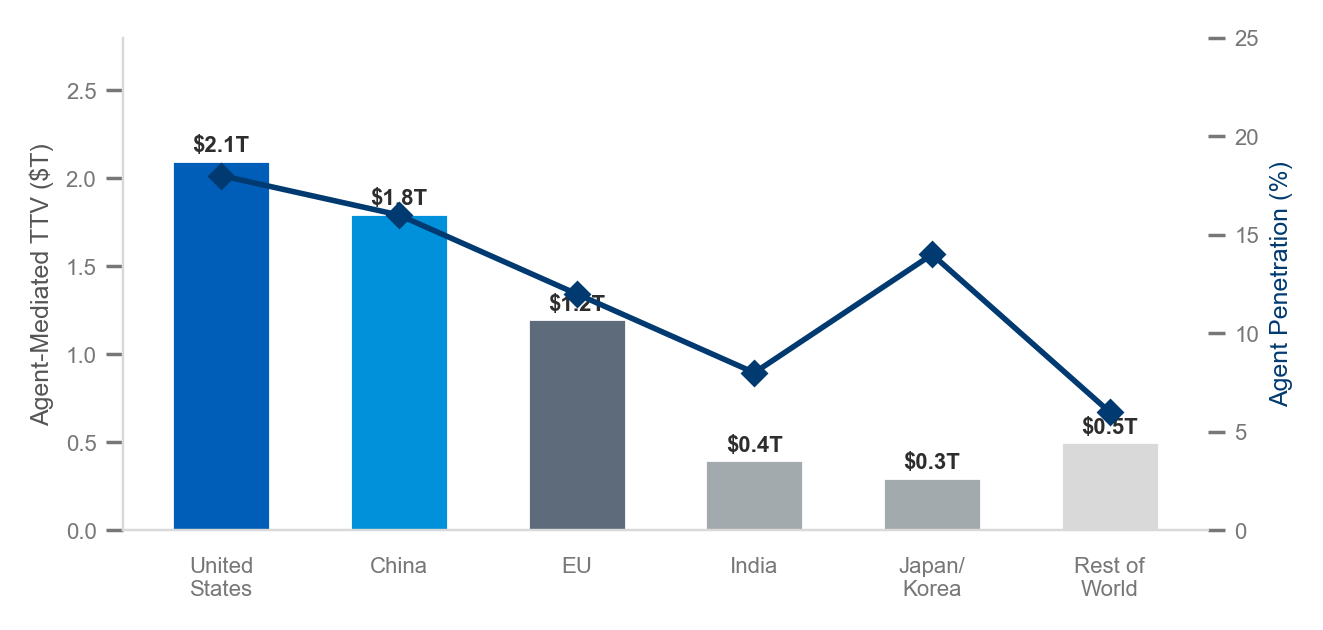
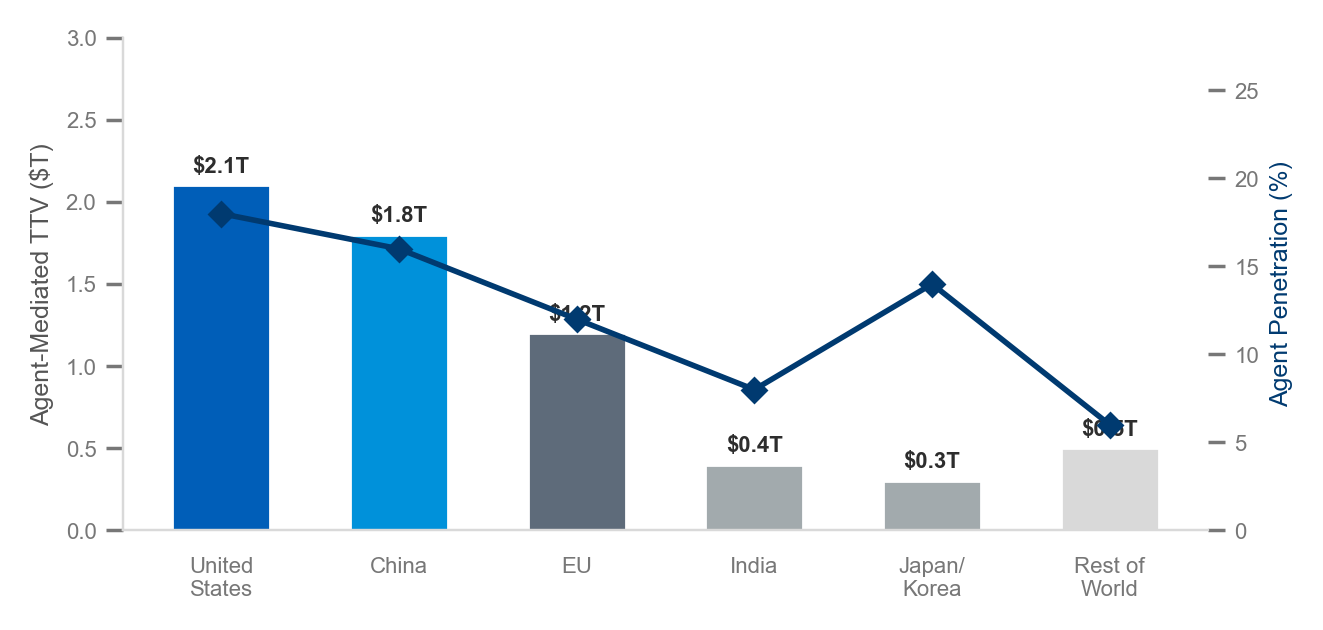
Add market map, fix chart text overlaps
- Added market map chart (19 charts total)
- Fixed risk heatmap label overlap with custom offsets
- Fixed regional projections bar/text overlap
- Report now 51 pages with market map section

diff --git a/reports/generate_charts.py b/reports/generate_charts.py
@@ -448,30 +448,42 @@ save(fig, 'consumer_demographics.png')
 # ============================================================
 # CHART 16: Risk Heatmap (Bubble Chart)
 # ============================================================
-fig, ax = plt.subplots(figsize=(7, 4))
+fig, ax = plt.subplots(figsize=(7, 4.5))
 risks = {
-    'Consumer\nTrust Gap': (75, 85, 800, BRAND_PRIMARY),
-    'Regulatory\nFragmentation': (65, 70, 600, ACCENT),
-    'Protocol\nFragmentation': (55, 55, 500, '#5E6B7A'),
-    'Agent Fraud\n& Security': (50, 80, 650, BRAND_PRIMARY),
-    'Merchant\nResistance': (40, 45, 400, NEUTRAL_GRAY),
-    'Technical\nReliability': (30, 35, 350, NEUTRAL_GRAY),
-    'Data Privacy\nConcerns': (60, 65, 550, ACCENT),
+    'Consumer Trust Gap': (78, 85, 600, BRAND_PRIMARY),
+    'Agent Fraud & Security': (48, 80, 500, BRAND_PRIMARY),
+    'Regulatory Fragmentation': (65, 70, 450, ACCENT),
+    'Data Privacy Concerns': (58, 60, 400, ACCENT),
+    'Protocol Fragmentation': (52, 48, 380, '#5E6B7A'),
+    'Merchant Resistance': (38, 42, 300, NEUTRAL_GRAY),
+    'Technical Reliability': (25, 32, 280, NEUTRAL_GRAY),
+}
+
+# Custom label offsets: (dx, dy, ha)
+label_offsets = {
+    'Consumer Trust Gap': (0, 18, 'center'),
+    'Agent Fraud & Security': (0, 18, 'center'),
+    'Regulatory Fragmentation': (0, 18, 'center'),
+    'Data Privacy Concerns': (0, -22, 'center'),
+    'Protocol Fragmentation': (0, -22, 'center'),
+    'Merchant Resistance': (0, -22, 'center'),
+    'Technical Reliability': (0, 18, 'center'),
 }
 
 for name, (prob, impact, size, color) in risks.items():
     ax.scatter(prob, impact, s=size, c=color, alpha=0.7, edgecolors='white', linewidth=1.5, zorder=5)
-    ax.annotate(name, xy=(prob, impact), xytext=(0, -20), textcoords='offset points',
-                ha='center', fontsize=7, fontweight='bold', color=TEXT_COLOR)
+    dx, dy, ha = label_offsets[name]
+    ax.annotate(name, xy=(prob, impact), xytext=(dx, dy), textcoords='offset points',
+                ha=ha, fontsize=7, fontweight='bold', color=TEXT_COLOR)
 
 ax.set_xlabel('Probability of Materialization (%)')
 ax.set_ylabel('Potential Impact on Adoption (%)')
-ax.set_xlim(15, 90)
+ax.set_xlim(15, 92)
 ax.set_ylim(20, 100)
-ax.axhline(y=60, color=LIGHT_GRAY, linestyle='--', linewidth=0.8)
+ax.axhline(y=55, color=LIGHT_GRAY, linestyle='--', linewidth=0.8)
 ax.axvline(x=50, color=LIGHT_GRAY, linestyle='--', linewidth=0.8)
-ax.text(70, 95, 'HIGH PRIORITY', fontsize=8, color=BRAND_PRIMARY, ha='center', fontweight='bold', alpha=0.5)
-ax.text(30, 30, 'MONITOR', fontsize=8, color=NEUTRAL_GRAY, ha='center', fontweight='bold', alpha=0.5)
+ax.text(72, 96, 'HIGH PRIORITY', fontsize=8, color=BRAND_PRIMARY, ha='center', fontweight='bold', alpha=0.5)
+ax.text(32, 26, 'MONITOR', fontsize=8, color=NEUTRAL_GRAY, ha='center', fontweight='bold', alpha=0.5)
 save(fig, 'risk_heatmap.png')
 
 # ============================================================
@@ -519,16 +531,84 @@ bars = ax.bar(x, ttv_2030, color=[BRAND_PRIMARY, ACCENT, '#5E6B7A', NEUTRAL_GRAY
 ax.set_ylabel('Agent-Mediated TTV ($T)')
 ax.set_xticks(x)
 ax.set_xticklabels(regions)
-ax.set_ylim(0, 2.8)
+ax.set_ylim(0, 3.0)
 
 ax2 = ax.twinx()
 ax2.plot(x, penetration, color=HEADING_COLOR, linewidth=2, marker='D', markersize=6, label='Penetration %')
 ax2.set_ylabel('Agent Penetration (%)', color=HEADING_COLOR)
-ax2.set_ylim(0, 25)
+ax2.set_ylim(0, 28)
 
 for bar, val in zip(bars, ttv_2030):
-    ax.text(bar.get_x() + bar.get_width()/2, bar.get_height() + 0.05, f'${val}T',
+    ax.text(bar.get_x() + bar.get_width()/2, bar.get_height() + 0.08, f'${val}T',
             ha='center', fontsize=8, fontweight='bold', color=TEXT_COLOR)
 save(fig, 'regional_projections.png')
+
+# ============================================================
+# CHART 19: Market Map — Agentic Commerce Ecosystem
+# ============================================================
+fig, ax = plt.subplots(figsize=(7.5, 5))
+ax.set_xlim(0, 100)
+ax.set_ylim(0, 100)
+ax.axis('off')
+
+# Layer boxes
+layers = [
+    (2, 78, 96, 18, 'Consumer-Facing Agents', BRAND_PRIMARY),
+    (2, 56, 96, 18, 'Agent Infrastructure & Protocols', ACCENT),
+    (2, 34, 96, 18, 'Payment & Checkout', '#5E6B7A'),
+    (2, 12, 96, 18, 'Merchant Enablement', NEUTRAL_GRAY),
+]
+
+for x, y, w, h, label, color in layers:
+    rect = plt.Rectangle((x, y), w, h, facecolor=color, alpha=0.12, edgecolor=color, linewidth=1.5, zorder=1)
+    ax.add_patch(rect)
+    ax.text(x + 2, y + h - 3, label, fontsize=9, fontweight='bold', color=color, va='top', zorder=3)
+
+# Companies in each layer
+companies_map = {
+    # Consumer Agents layer (y=78-96)
+    'Google Gemini': (15, 86, BRAND_PRIMARY),
+    'ChatGPT': (35, 86, BRAND_PRIMARY),
+    'Amazon Rufus': (55, 86, BRAND_PRIMARY),
+    'Perplexity': (75, 86, BRAND_PRIMARY),
+    'Sierra AI': (15, 81, BRAND_PRIMARY),
+    'Rabbit r1': (35, 81, BRAND_PRIMARY),
+
+    # Infrastructure layer (y=56-74)
+    'MCP (Anthropic)': (15, 64, ACCENT),
+    'UCP (Google)': (35, 64, ACCENT),
+    'ACP (OpenAI)': (55, 64, ACCENT),
+    'A2A (Google)': (75, 64, ACCENT),
+    'AP2 (Google)': (15, 59, ACCENT),
+    'x402 (Open)': (35, 59, ACCENT),
+    'LangChain': (55, 59, ACCENT),
+    'CrewAI': (75, 59, ACCENT),
+
+    # Payment layer (y=34-52)
+    'Stripe': (15, 42, '#5E6B7A'),
+    'Adyen': (35, 42, '#5E6B7A'),
+    'Visa TAP': (55, 42, '#5E6B7A'),
+    'Ramp': (75, 42, '#5E6B7A'),
+    'PayPal': (15, 37, '#5E6B7A'),
+    'Square': (35, 37, '#5E6B7A'),
+    'Stytch': (55, 37, '#5E6B7A'),
+
+    # Merchant layer (y=12-30)
+    'Shopify': (15, 20, NEUTRAL_GRAY),
+    'BigCommerce': (35, 20, NEUTRAL_GRAY),
+    'Salesforce': (55, 20, NEUTRAL_GRAY),
+    'Algolia': (75, 20, NEUTRAL_GRAY),
+    'Constructor': (15, 15, NEUTRAL_GRAY),
+    'Nosto': (35, 15, NEUTRAL_GRAY),
+    'Schema App': (55, 15, NEUTRAL_GRAY),
+}
+
+for name, (x, y, color) in companies_map.items():
+    bbox = dict(boxstyle='round,pad=0.3', facecolor='white', edgecolor=color, linewidth=0.8, alpha=0.95)
+    ax.text(x, y, name, fontsize=6.5, fontweight='bold', color=TEXT_COLOR,
+            ha='center', va='center', bbox=bbox, zorder=4)
+
+ax.set_title('')
+save(fig, 'market_map.png')
 
 print("\n✅ All 18 charts generated successfully.")
